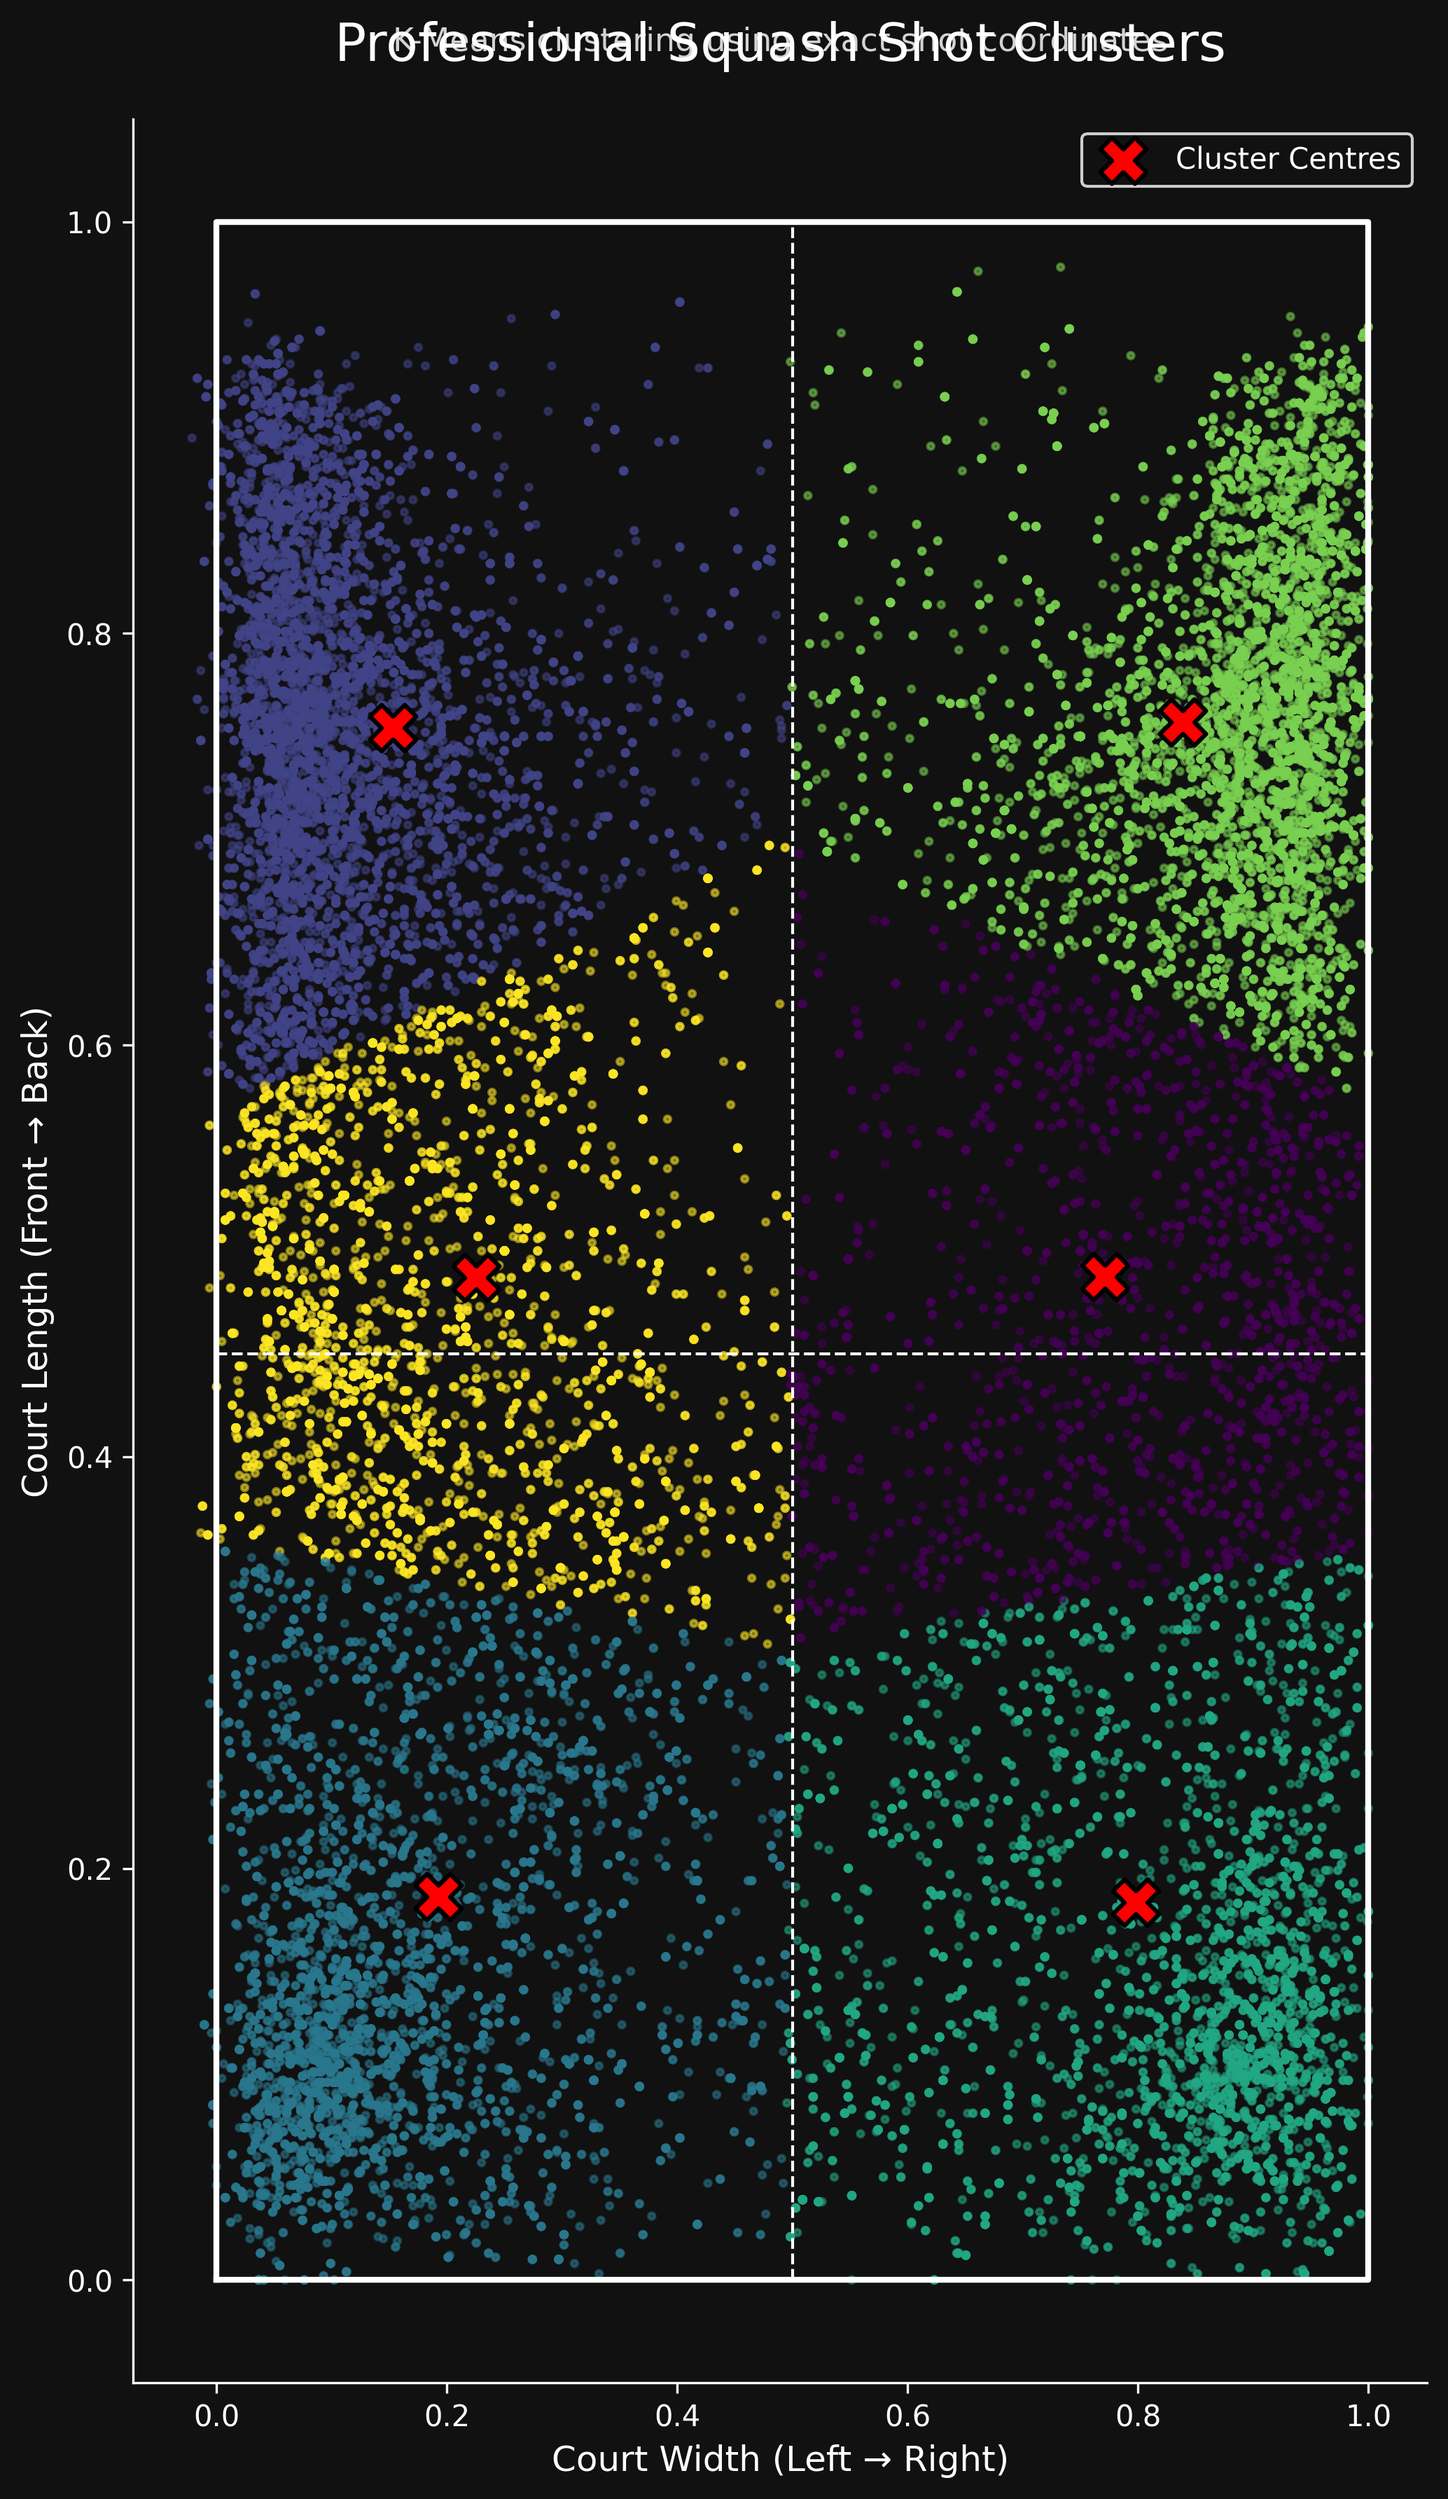
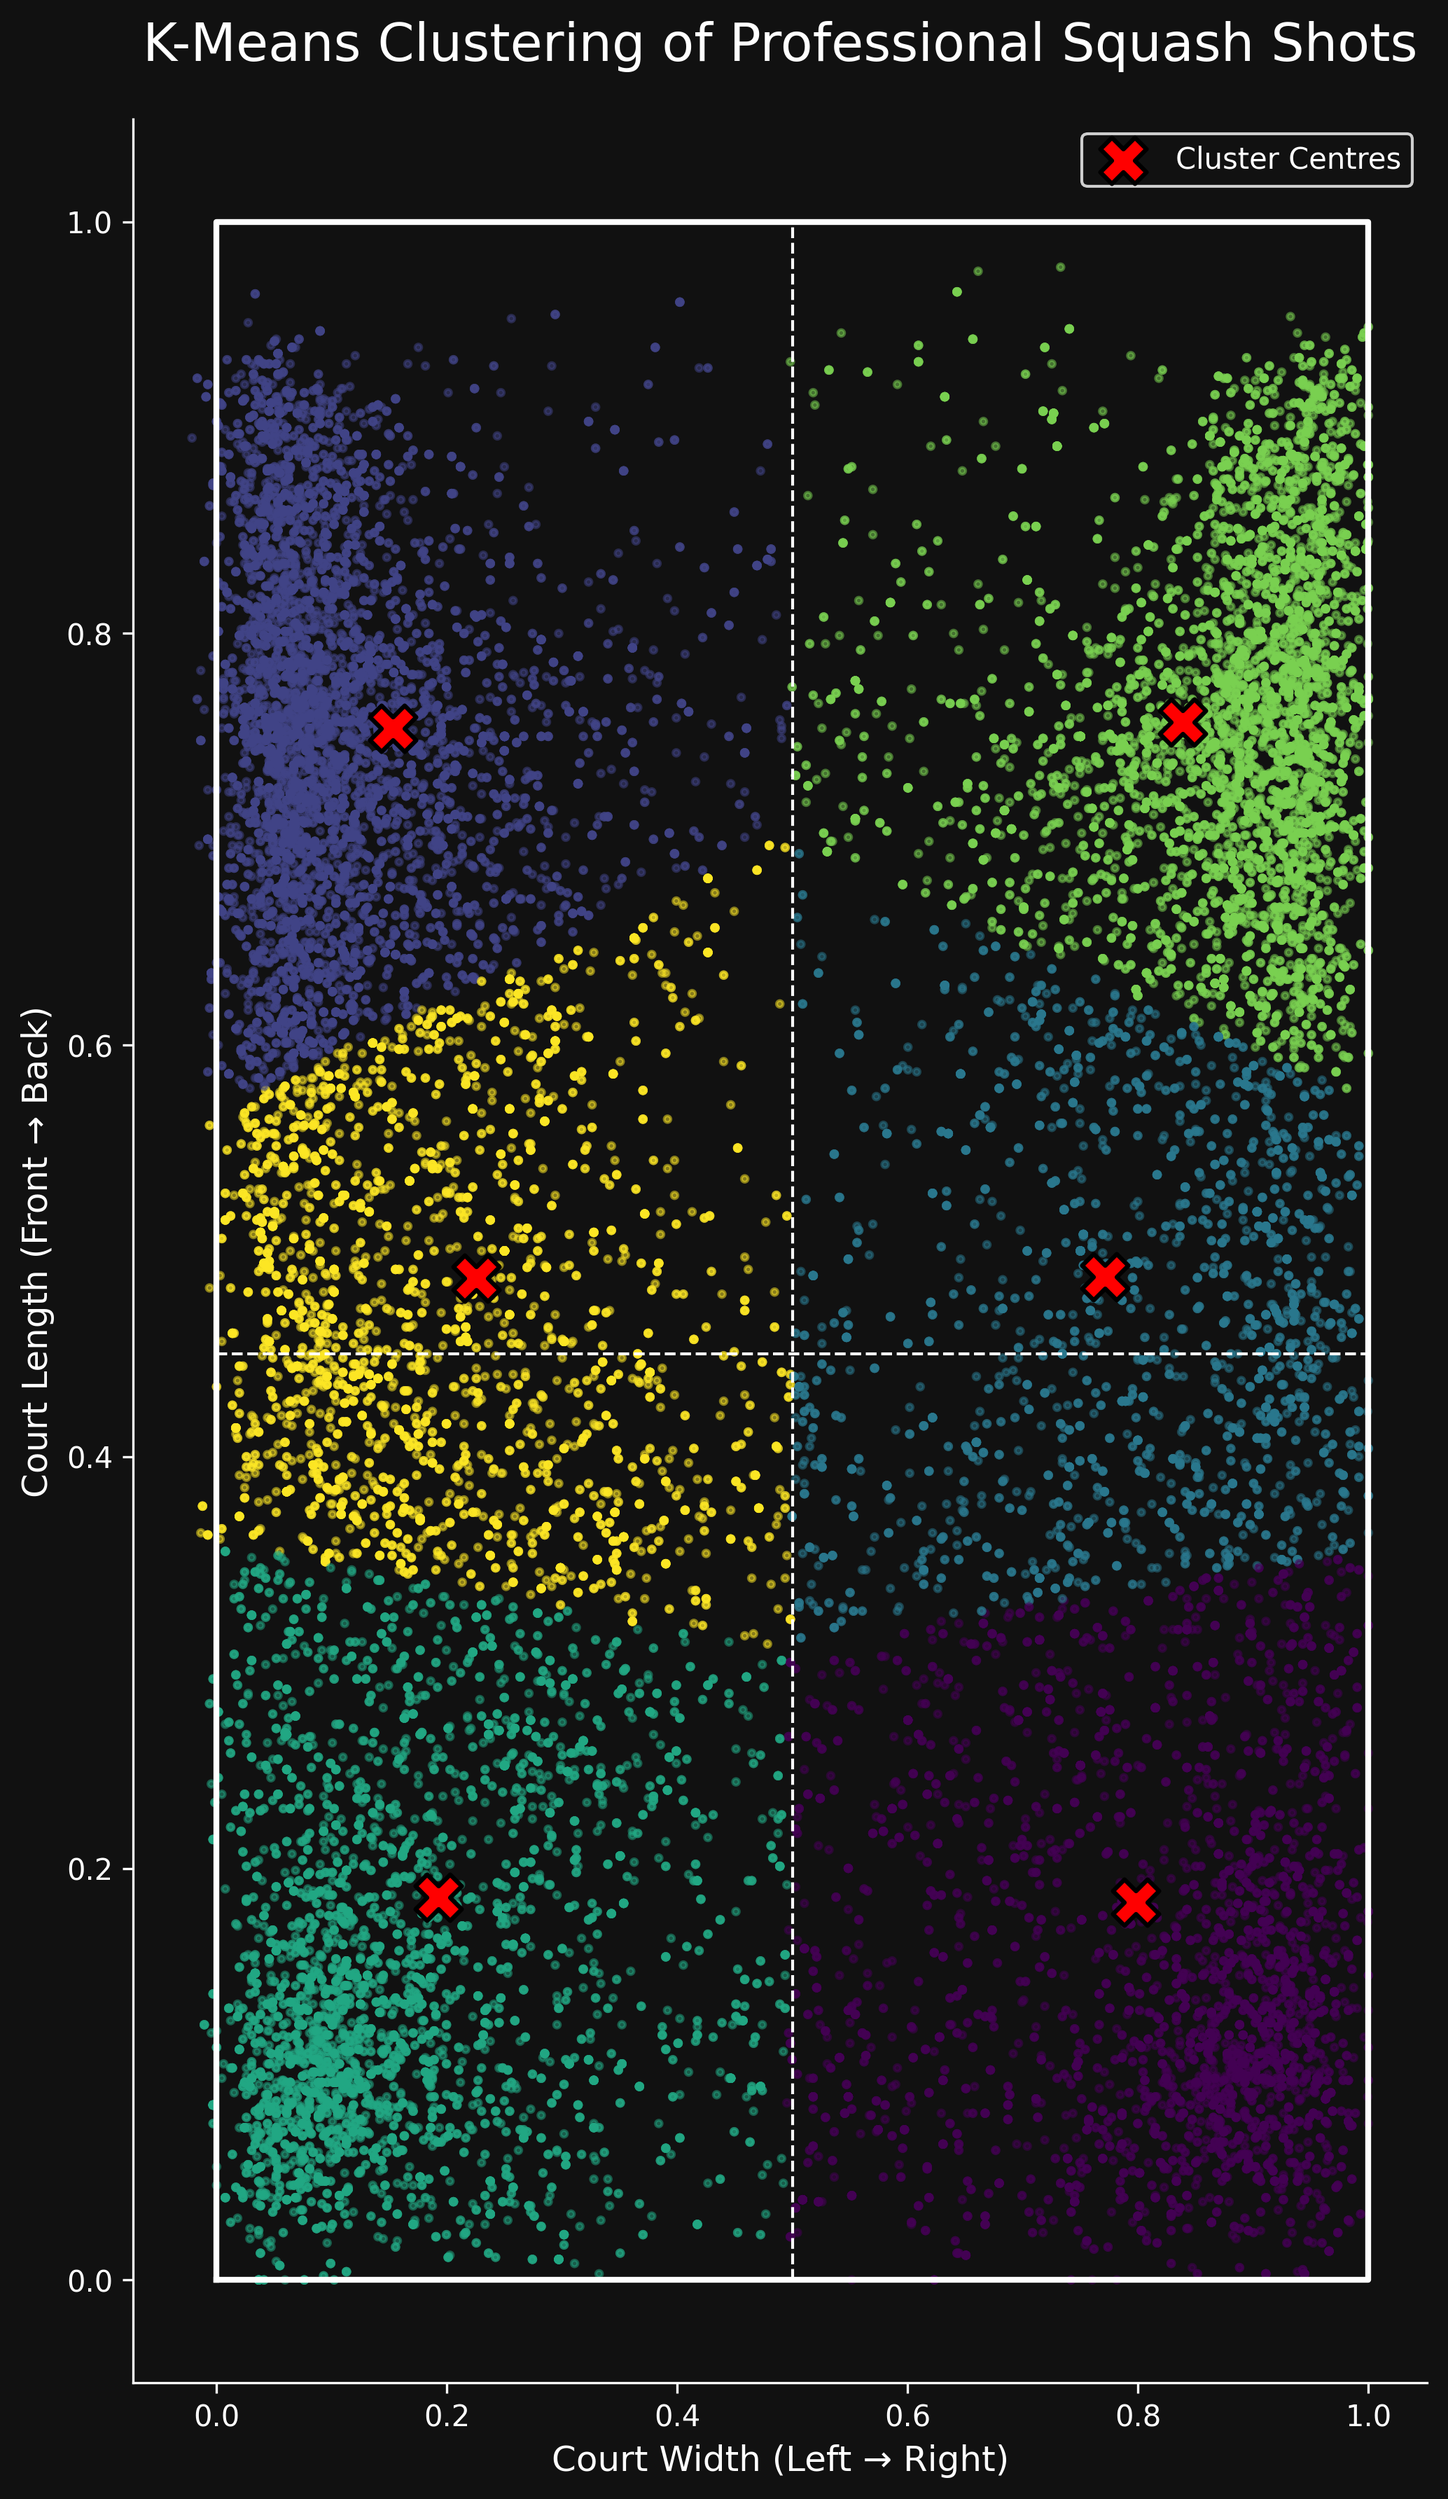
Add files via upload

diff --git a/Plots.py b/Plots.py
@@ -1,4 +1,11 @@
 # ==========================================
+# K-Means Clustering of Professional Squash Shots
+# Creates:
+# 1) elbow_method_clusters.png
+# 2) linkedin_cluster_visual.png
+# ==========================================
+
+# ==========================================
 # 0) Load packages
 # ==========================================
 
@@ -26,7 +33,7 @@ print(f"Loaded {len(shots):,} rows")
 
 df = shots.copy()
 
-# Clean coordinates
+# Clean destination coordinates
 df["finalPositionX"] = pd.to_numeric(
     df["finalPositionX"],
     errors="coerce"
@@ -37,19 +44,82 @@ df["finalPositionY"] = pd.to_numeric(
     errors="coerce"
 )
 
+# Keep only rows with valid shot destination coordinates
 df = df.dropna(
     subset=["finalPositionX", "finalPositionY"]
 )
 
-# ==========================================
-# 3) Run clustering again
-# ==========================================
+print(f"Rows with valid final position coordinates: {len(df):,}")
 
+# Coordinates used for clustering
 coords = df[["finalPositionX", "finalPositionY"]]
+
+# ==========================================
+# 3) Elbow Method
+# ==========================================
+# Purpose:
+# Test multiple values of k to understand how many clusters
+# are reasonable for the shot landing locations.
+
+inertia_values = []
+k_values = range(1, 11)
+
+for k in k_values:
+    kmeans_test = KMeans(
+        n_clusters=k,
+        random_state=42,
+        n_init=10
+    )
+
+    kmeans_test.fit(coords)
+
+    inertia_values.append(kmeans_test.inertia_)
+
+# Plot elbow curve
+plt.figure(figsize=(8, 5))
+
+plt.plot(
+    list(k_values),
+    inertia_values,
+    marker="o",
+    linewidth=2
+)
+
+plt.title(
+    "Elbow Method for Shot Landing Clusters",
+    fontsize=14
+)
+
+plt.xlabel("Number of Clusters (k)")
+plt.ylabel("Inertia")
+
+plt.xticks(list(k_values))
+plt.grid(alpha=0.3)
+
+plt.tight_layout()
+
+plt.savefig(
+    "elbow_method_clusters.png",
+    dpi=300,
+    bbox_inches="tight"
+)
+
+plt.show()
+
+print("Saved elbow method image as: elbow_method_clusters.png")
+
+# ==========================================
+# 4) Run final K-Means clustering
+# ==========================================
+# Based on the elbow method + squash court interpretability,
+# we use 6 clusters:
+# front-left, front-right, mid-left, mid-right,
+# back-left, back-right.
 
 kmeans = KMeans(
     n_clusters=6,
-    random_state=42
+    random_state=42,
+    n_init=10
 )
 
 df["cluster"] = kmeans.fit_predict(coords)
@@ -57,29 +127,45 @@ df["cluster"] = kmeans.fit_predict(coords)
 # Get cluster centres
 centers = kmeans.cluster_centers_
 
+print("\nCluster centres:")
+print(centers)
 
 # ==========================================
-# LinkedIn-Ready Cluster Visualization
+# 5) Optional: Label clusters manually
+# ==========================================
+# These labels are based on your observed cluster centres.
+# If the cluster numbers change, update these labels.
+
+cluster_names = {
+    0: "back_left_deep",
+    1: "front_right",
+    2: "mid_right",
+    3: "front_left",
+    4: "back_right_deep",
+    5: "mid_left"
+}
+
+df["cluster_name"] = df["cluster"].map(cluster_names)
+
+print("\nShot count by cluster:")
+print(df["cluster_name"].value_counts())
+
+# ==========================================
+# 6) LinkedIn-Ready Cluster Visualization
 # ==========================================
 
-import matplotlib.pyplot as plt
+# Sample data for cleaner plotting
+sample_size = min(len(df), 50000)
 
-# ------------------------------------------
-# 1) Sample data for cleaner plotting
-# ------------------------------------------
+df_sample = df.sample(
+    sample_size,
+    random_state=42
+)
 
-df_sample = df.sample(50000, random_state=42)
-
-# ------------------------------------------
-# 2) Create figure
-# ------------------------------------------
-
+# Create figure
 fig, ax = plt.subplots(figsize=(7, 12))
 
-# ------------------------------------------
-# 3) Plot clustered shot locations
-# ------------------------------------------
-
+# Plot clustered shot locations
 scatter = ax.scatter(
     df_sample["finalPositionX"],
     df_sample["finalPositionY"],
@@ -89,10 +175,7 @@ scatter = ax.scatter(
     alpha=0.5
 )
 
-# ------------------------------------------
-# 4) Plot cluster centres
-# ------------------------------------------
-
+# Plot cluster centres
 ax.scatter(
     centers[:, 0],
     centers[:, 1],
@@ -104,44 +187,51 @@ ax.scatter(
     label="Cluster Centres"
 )
 
-# ------------------------------------------
-# 5) Draw simple squash court outline
-# ------------------------------------------
+# ==========================================
+# 7) Draw simple squash court outline
+# ==========================================
 
 # Outer court boundary
 court_x = [0, 1, 1, 0, 0]
 court_y = [0, 0, 1, 1, 0]
 
-ax.plot(court_x, court_y, color="white", linewidth=2)
+ax.plot(
+    court_x,
+    court_y,
+    color="white",
+    linewidth=2
+)
 
-# Middle line
-ax.plot([0.5, 0.5], [0, 1], color="white", linestyle="--", linewidth=1)
+# Centre line
+ax.plot(
+    [0.5, 0.5],
+    [0, 1],
+    color="white",
+    linestyle="--",
+    linewidth=1
+)
 
 # Short line approximation
-ax.plot([0, 1], [0.45, 0.45], color="white", linestyle="--", linewidth=1)
+ax.plot(
+    [0, 1],
+    [0.45, 0.45],
+    color="white",
+    linestyle="--",
+    linewidth=1
+)
 
-# ------------------------------------------
-# 6) Styling
-# ------------------------------------------
+# ==========================================
+# 8) Styling
+# ==========================================
 
 fig.patch.set_facecolor("#111111")
 ax.set_facecolor("#111111")
 
 ax.set_title(
-    "Professional Squash Shot Clusters",
+    "K-Means Clustering of Professional Squash Shots",
     fontsize=18,
     color="white",
     pad=20
-)
-
-ax.text(
-    0.5,
-    1.03,
-    "K-Means clustering using exact shot coordinates",
-    fontsize=11,
-    color="lightgray",
-    ha="center",
-    transform=ax.transAxes
 )
 
 ax.set_xlabel(
@@ -167,13 +257,17 @@ ax.spines["bottom"].set_color("white")
 ax.spines["left"].set_color("white")
 
 # Legend
-legend = ax.legend(facecolor="#111111", edgecolor="white")
+legend = ax.legend(
+    facecolor="#111111",
+    edgecolor="white"
+)
+
 for text in legend.get_texts():
     text.set_color("white")
 
-# ------------------------------------------
-# 7) Tight layout + save
-# ------------------------------------------
+# ==========================================
+# 9) Save cluster visual
+# ==========================================
 
 plt.tight_layout()
 
@@ -185,3 +279,5 @@ plt.savefig(
 )
 
 plt.show()
+
+print("Saved cluster visual as: linkedin_cluster_visual.png")
